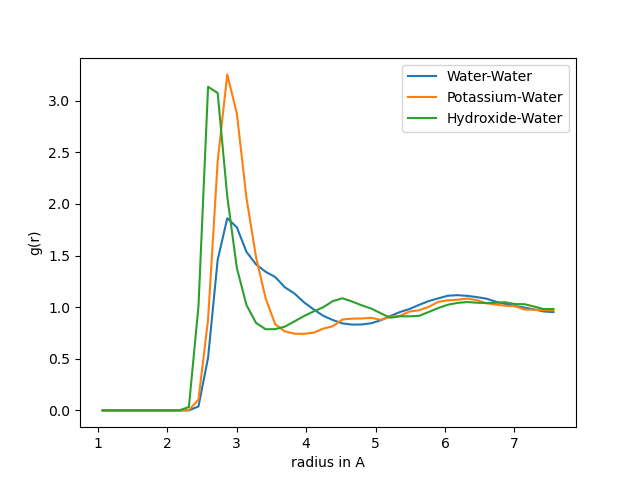
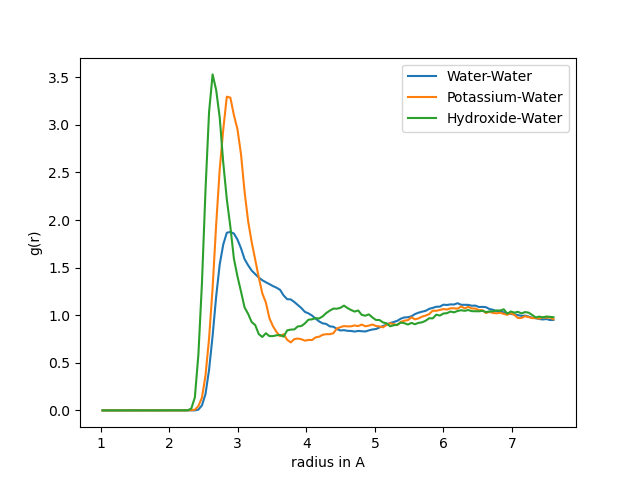
more done

diff --git a/post-processing scripts/KOH systems/testcase_rdfs.py b/post-processing scripts/KOH systems/testcase_rdfs.py
@@ -5,7 +5,7 @@ import scipy as sp
 path = r'C:\Users\vlagerweij\Documents\TU jaar 6\Project KOH(aq)\Progress_meeting_14/Figures'
 
 
-loaded = np.load("/Users/vlagerweij/Documents/TU jaar 6/Project KOH(aq)/Repros/Quantum_to_Transport/post-processing scripts/KOH systems/test_output/single_core.npz")
+loaded = np.load("/Users/vlagerweij/Documents/TU jaar 6/Project KOH(aq)/Repros/Quantum_to_Transport/post-processing scripts/KOH systems/test_output/combined_simulation/single_core.npz")
 
 r = loaded['r_rdf']
 rdf_H2OH2O = loaded['rdf_H2OH2O']

diff --git a/post-processing scripts/KOH systems/mpi_python.py b/post-processing scripts/KOH systems/mpi_python.py
@@ -313,7 +313,7 @@ class Prot_Hop:
         if self.rank == 0 and self.timit is True:
             print('Time calculating distances', time.time() - self.tstart)
 
-    def rdf_compute_all(self, n, nb=48, r_max=None):
+    def rdf_compute_all(self, n, nb=128, r_max=None):
         # RDF startup scheme
         if n == 0:
             # set standard maximum rdf value
